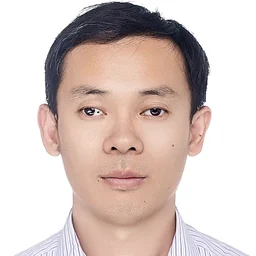
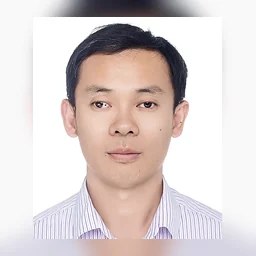
Fix headshot framing and alignment

diff --git a/public/assets/style.css b/public/assets/style.css
@@ -272,6 +272,9 @@ html[data-theme="light"] .top {
 
 .hero-card {
   padding: 16px;
+  display: flex;
+  flex-direction: column;
+  gap: 12px;
 }
 
 .avatar-wrap {
@@ -316,7 +319,7 @@ html[data-theme="light"] .top {
 }
 
 .hero-card-body {
-  padding-top: 12px;
+  padding-top: 0;
 }
 
 .hero-card-title {

diff --git a/scripts/make_headshot.py b/scripts/make_headshot.py
@@ -7,16 +7,6 @@ from pathlib import Path
 from PIL import Image, ImageEnhance, ImageFilter, ImageOps
 
 
-def _center_square(img: Image.Image) -> Image.Image:
-    w, h = img.size
-    side = min(w, h)
-    left = (w - side) // 2
-    # Bias slightly upward for typical portraits (more headroom).
-    top = (h - side) // 2 - int(side * 0.06)
-    top = max(0, min(top, h - side))
-    return img.crop((left, top, left + side, top + side))
-
-
 def _enhance(img: Image.Image) -> Image.Image:
     # Subtle, portrait-friendly tweaks.
     img = ImageOps.exif_transpose(img)
@@ -28,22 +18,47 @@ def _enhance(img: Image.Image) -> Image.Image:
     return img
 
 
+def _compose_square(img: Image.Image, out_size: int, margin: float = 0.06) -> Image.Image:
+    """
+    Create a square headshot without cropping the face:
+    - background: blurred cover
+    - foreground: contain with a small margin
+    """
+    # Background (cover) + blur
+    bg = ImageOps.fit(img, (out_size, out_size), method=Image.Resampling.LANCZOS)
+    bg = bg.filter(ImageFilter.GaussianBlur(radius=max(10, out_size // 48)))
+    bg = ImageEnhance.Brightness(bg).enhance(0.97)
+    bg = ImageEnhance.Contrast(bg).enhance(1.05)
+
+    # Foreground (contain) with margins
+    w, h = img.size
+    inner = int(out_size * (1 - 2 * margin))
+    scale = inner / max(w, h)
+    fg_w = max(1, int(round(w * scale)))
+    fg_h = max(1, int(round(h * scale)))
+    fg = img.resize((fg_w, fg_h), Image.Resampling.LANCZOS)
+
+    x = (out_size - fg_w) // 2
+    y = (out_size - fg_h) // 2
+    bg.paste(fg, (x, y))
+    return bg
+
+
 def build(input_path: Path, out_dir: Path) -> None:
     out_dir.mkdir(parents=True, exist_ok=True)
 
     img = Image.open(input_path)
     img = _enhance(img)
-    img = _center_square(img)
 
     sizes = [512, 256]
     for size in sizes:
-        resized = img.resize((size, size), Image.Resampling.LANCZOS)
+        composed = _compose_square(img, size, margin=0.065)
         webp = out_dir / ("headshot.webp" if size == 512 else f"headshot-{size}.webp")
-        resized.save(webp, "WEBP", quality=86, method=6)
+        composed.save(webp, "WEBP", quality=86, method=6)
 
     # PNG fallback for older environments / debugging.
     png = out_dir / "headshot.png"
-    img.resize((512, 512), Image.Resampling.LANCZOS).save(png, "PNG", optimize=True)
+    _compose_square(img, 512, margin=0.065).save(png, "PNG", optimize=True)
 
 
 def main() -> int: